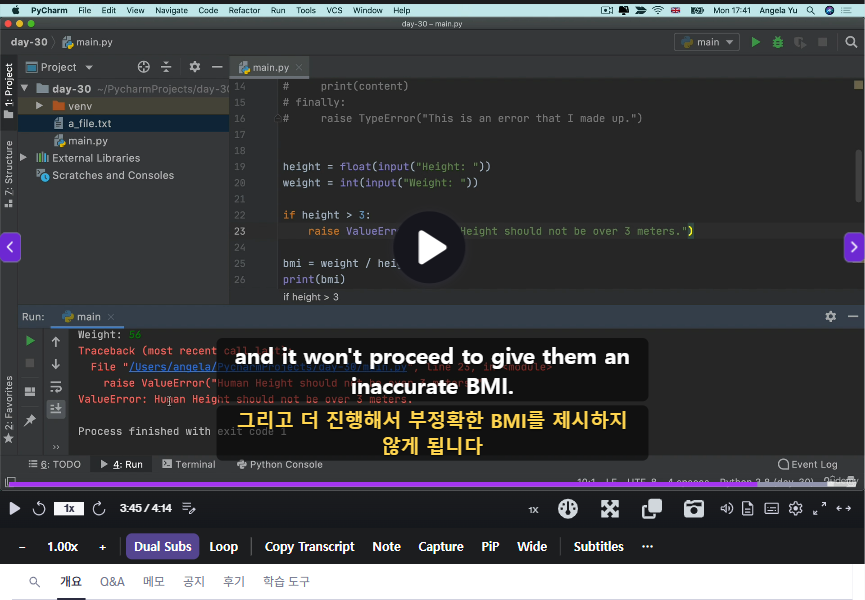
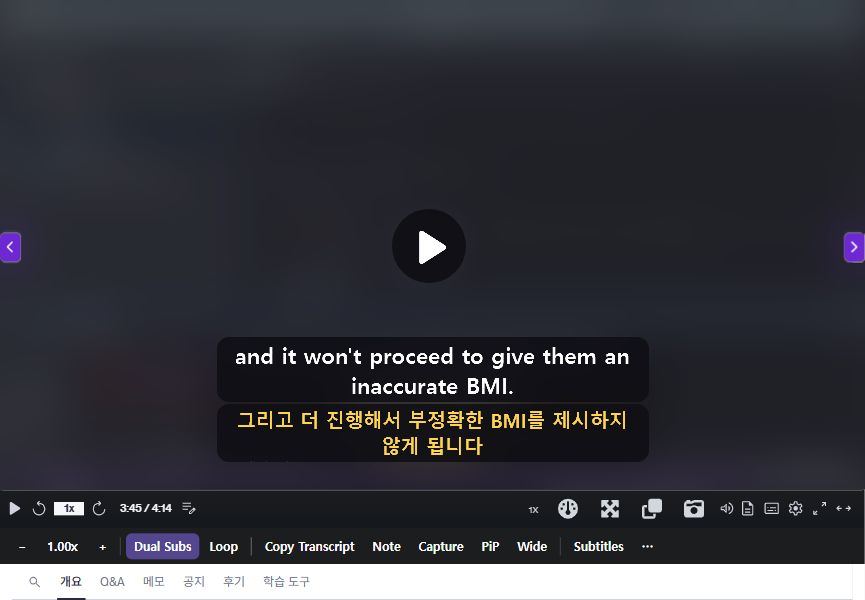
docs: 플레이어 스크린샷의 강의 영상 장면을 흐리게 가림
자막 상자 뒤로 비치던 영상 글자도 지우고, 자막 글자·재생 버튼·컨트롤·도구 막대만 선명하게 남김.

diff --git a/README.md b/README.md
@@ -5,7 +5,7 @@ Udemy 내 학습 페이지, 강의 플레이어, 검색·강의 소개 페이지
 
 ## 스크린샷
 
-아래 그림은 **실제 Udemy 화면**에서 확장을 켜고 직접 찍은 것입니다. 계정 정보가 보이는 머리글은 잘라 냈고, 강의 영상 장면의 저작권은 해당 강의 제작자와 Udemy에 있습니다.
+아래 그림은 **실제 Udemy 화면**에서 확장을 켜고 직접 찍은 것입니다. 계정 정보가 보이는 머리글은 잘라 냈고, 강의 영상 장면은 저작권 때문에 흐리게 가렸습니다.
 
 **영상 아래 도구 막대와 이중 자막** — Udemy 기본 자막(여기서는 한국어)은 숨기고, 영어 원문과 한국어 번역을 영상 안에 함께 보여 줍니다. 도구 막대는 영상 바로 아래에 붙고, Dual Subs·Loop·Wide는 한 번 클릭으로 켜고 끄며 켜진 것은 색으로 표시됩니다.
 
